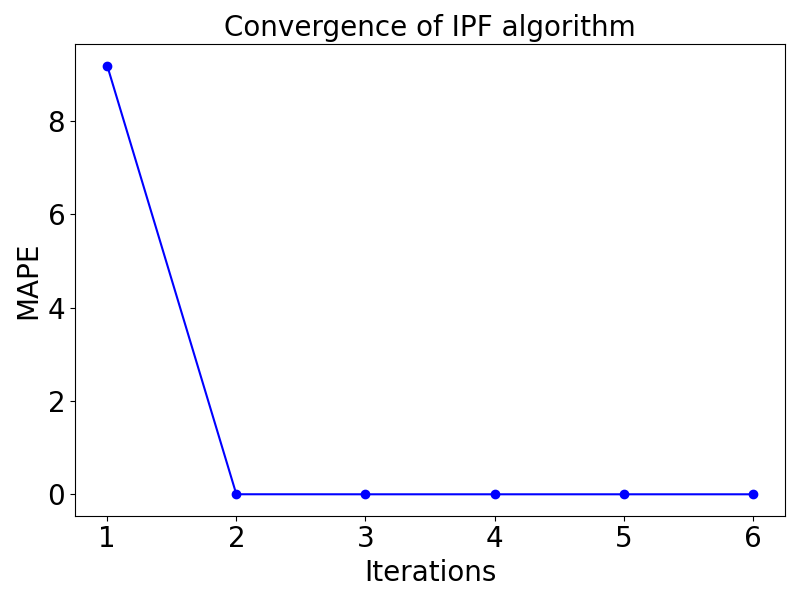
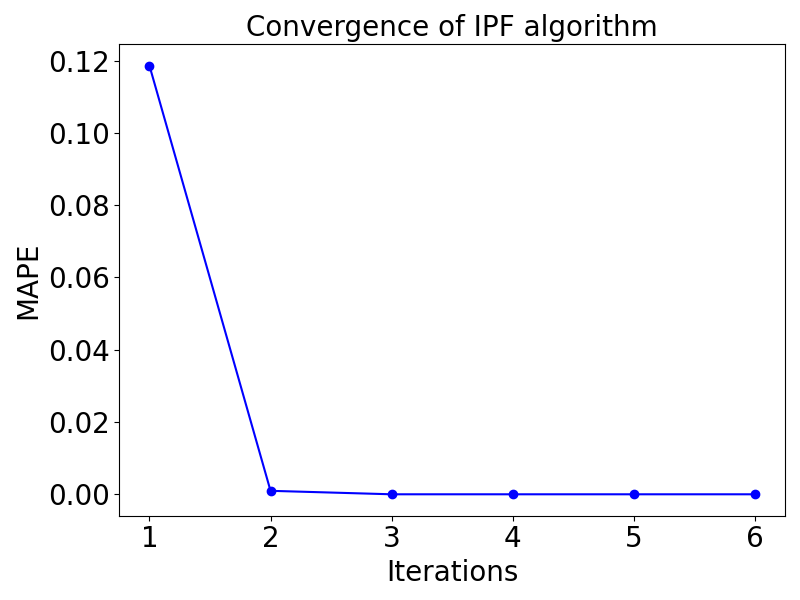
add computation time

diff --git a/run_experiment.py b/run_experiment.py
@@ -3,9 +3,12 @@ import numpy as np
 import pandas as pd
 import torch
 
+from timeit import default_timer as timer
+
 def IPF(x, mu_i, mu_j):
     """
-    Function to do iterative proportional fitting (IPF) in 2D.
+    Function to do iterative proportional fitting (IPF)
+    with two categorical variables.
     Input:
       x: 2D Numpy array, values to be raked
       mu_i: 1D Numpy array, partial sums over the columns
@@ -22,16 +25,18 @@ def IPF(x, mu_i, mu_j):
     assert len(np.shape(x)) == 2, \
         'We need to rake a two-dimensional matrix'
     assert np.shape(x)[0] == len(mu_i), \
-        'Partial sums over columns should be equal to the number of rows'
+        'Partial sums over columns should have length equal to the number of rows'
     assert np.shape(x)[1] == len(mu_j), \
-        'Partial sums over rows should be equal to the number of columns'
+        'Partial sums over rows should have length equal to the number of columns'
     assert abs(np.sum(mu_i) - np.sum(mu_j)) < 1e-10, \
         'Sum of partial sums over rows and columns should be equal'
 
+    # Initialization
     alpha = np.ones((np.shape(x)[0], np.shape(x)[1]))
     epsilon = 1
     diffs = [0.5 * np.mean(np.abs((mu_j - np.sum(alpha * x, 0)) / mu_j)) + \
              0.5 * np.mean(np.abs((mu_i - np.sum(alpha * x, 1)) / mu_i))]
+    # Loop until convergence
     while epsilon > 1e-10:
         alpha_old = np.copy(alpha)
         alpha = alpha * mu_j / np.sum(alpha * x, 0)
@@ -40,13 +45,14 @@ def IPF(x, mu_i, mu_j):
         diffs.append( \
             0.5 * np.mean(np.abs((mu_j - np.sum(alpha * x, 0)) / mu_j)) + \
             0.5 * np.mean(np.abs((mu_i - np.sum(alpha * x, 1)) / mu_i)))
+    # Return raked values
     mu = alpha * x
     return (mu, diffs)
 
 def IPF_torch(x, mu_i, mu_j):
     """
-    Function to do iterative proportional fitting (IPF) in 2D
-    using Torch tensors instead of Numpy.
+    Function to do iterative proportional fitting (IPF)
+    with two categorical variables using Torch tensors instead of Numpy.
     Input:
       x: 2D Torch tensor, values to be raked
       mu_i: 1D Torch tensor, partial sums over the columns
@@ -63,19 +69,22 @@ def IPF_torch(x, mu_i, mu_j):
     assert len(x.shape) == 2, \
         'We need to rake a two-dimensional tensor'
     assert x.shape[0] == mu_i.shape[0], \
-        'Partial sums over columns should be equal to the number of rows'
+        'Partial sums over columns should have length equal to the number of rows'
     assert x.shape[1] == mu_j.shape[0], \
-        'Partial sums over rows should be equal to the number of columns'
+        'Partial sums over rows should have length equal to the number of columns'
     assert torch.abs(torch.sum(mu_i) - torch.sum(mu_j)) < 1e-5, \
         'Sum of partial sums over rows and columns should be equal'
 
+    # We use log values instead of actual values for better convergence
     x = torch.log(x)
+    # Initialization
     beta = torch.zeros(x.shape[0], x.shape[1])
     epsilon = 1
     diffs = (0.5 * torch.mean(torch.abs((torch.log(mu_j) -
                 torch.logsumexp(x + beta, 0)) / torch.log(mu_j))) + \
              0.5 * torch.mean(torch.abs((torch.log(mu_i) -
                 torch.logsumexp(x + beta, 1)) / torch.log(mu_i)))).reshape(1)
+    # Loop until convergence
     while epsilon > 1e-10:
         beta_old = torch.clone(beta)
         beta = beta + torch.log(mu_j) - torch.logsumexp(x + beta, 0)
@@ -89,73 +98,81 @@ def IPF_torch(x, mu_i, mu_j):
              0.5 * torch.mean(torch.abs((torch.log(mu_i) -
                 torch.logsumexp(x + beta, 1)) / torch.log(mu_i)))).reshape(1)),
             dim=0)
+    # Go back to experiment and return raked values
     mu = torch.exp(x + beta)
     return (mu, diffs)
 
-def create_experiment():
+def create_experiment(n, m, plot=True):
     """
     Function to test the IPF algorithm.
-    Returns initial values and raked values.
+    Input:
+      n: Integer, number of categories for first variable
+      m: Integer, number of categories for second variable
+    Output:
+      x: 2D Numpy array, values to be raked
+      mu_i: 1D Numpy array, partial sums over the columns
+      mu_j: 1D Numpy array, partial sums over the rows
+      mu: 2D Numpy array, raked values
+      num_iter: Integer, number of iterations until convergence
+      time: scalar, computation time
     """
+
     # Set seed for reproducibility
-    np.random.seed(0)
+    np.random.seed(n * m)
 
     # Choose values for x, mu_i, mu_j
-    n = 50
-    m = 40
-    x = np.random.uniform(0.004, 0.006, m * n).reshape((n, m))
-    mu_i = np.random.uniform(0.15, 0.25, n)
+    x = np.random.uniform(0.8 / (n * m), 1.2 / (n * m), m * n).reshape((n, m))
+    mu_i = np.random.uniform(0.75 / n, 1.25 / n, n)
     mu_i = mu_i / np.sum(mu_i)
-    mu_j = np.random.uniform(0.2, 0.3, m)
+    mu_j = np.random.uniform(0.75 / m, 1.25 / m, m)
     mu_j = mu_j / np.sum(mu_j)
 
     # Rake matrix using IPF algorithm
+    time_start = timer()
     (mu, diffs) = IPF(x, mu_i, mu_j)
-
-    # Print results to show that it works
-    # Print sums over i
-    for i in range(0, n):
-        print('Row ', i, ' - True value = ', mu_i[i], \
-                         ' - Computed value = ', np.sum(mu, 1)[i])
-    # Print sums over j
-    for j in range(0, m):
-        print('Column ', j, ' - True value = ', mu_j[j], \
-                            ' - Computed value = ', np.sum(mu, 0)[j])
-    # Print overall sum
-    print('Total = ', np.sum(mu_i), ' and ', np.sum(mu_j), \
-          ' - Computed value = ', np.sum(mu))
+    time_end = timer()
 
     # Show how fast it converges
-    fig, ax = plt.subplots(figsize=(8, 6))
-    plt.plot(np.arange(1, len(diffs) + 1), diffs, 'bo')
-    plt.plot(np.arange(1, len(diffs) + 1), diffs, 'b-')
-    plt.xlabel('Iterations', fontsize=20)
-    plt.ylabel('MAPE', fontsize=20)
-    ax.set_xticks(np.arange(1, len(diffs) + 1).tolist())
-    plt.xticks(fontsize=20)
-    plt.yticks(fontsize=20)
-    plt.title('Convergence of IPF algorithm', fontsize=20)
-    plt.tight_layout()
-    plt.savefig('IPF_convergence.png')
+    if plot:
+        fig, ax = plt.subplots(figsize=(8, 6))
+        plt.plot(np.arange(1, len(diffs) + 1), diffs, 'bo')
+        plt.plot(np.arange(1, len(diffs) + 1), diffs, 'b-')
+        plt.xlabel('Iterations', fontsize=20)
+        plt.ylabel('MAPE', fontsize=20)
+        ax.set_xticks(np.arange(1, len(diffs) + 1).tolist())
+        plt.xticks(fontsize=20)
+        plt.yticks(fontsize=20)
+        plt.title('Convergence of IPF algorithm', fontsize=20)
+        plt.tight_layout()
+        plt.savefig('IPF_convergence.png')
 
     # Return values for analysis
-    return (x, mu_i, mu_j, mu)
+    num_iter = len(diffs)
+    return (x, mu_i, mu_j, mu, num_iter, time_end - time_start)
 
-def create_experiment_torch():
+def create_experiment_torch(n, m, plot=True):
     """
     Function to test the IPF algorithm with Torch tensors.
-    Returns initial values and raked values.
+    Input:
+      n: Integer, number of categories for first variable
+      m: Integer, number of categories for second variable
+    Output:
+      x: 2D Torch tensor, values to be raked
+      mu_i: 1D Torch tensor, partial sums over the columns
+      mu_j: 1D Torch tensor, partial sums over the rows
+      mu: 2D Torch tensor, raked values
+      num_iter: Integer, number of iterations until convergence
+      time: scalar, computation time
     """
+
     # Set seed for reproducibility
-    np.random.seed(0)
+    np.random.seed(n * m)
 
     # Choose values for x, mu_i, mu_j
-    n = 50
-    m = 40
-    x = np.random.uniform(0.004, 0.006, m * n).reshape((n, m))
-    mu_i = np.random.uniform(0.15, 0.25, n)
+    x = np.random.uniform(0.8 / (n * m), 1.2 / (n * m), m * n).reshape((n, m))
+    mu_i = np.random.uniform(0.75 / n, 1.25 / n, n)
     mu_i = mu_i / np.sum(mu_i)
-    mu_j = np.random.uniform(0.2, 0.3, m)
+    mu_j = np.random.uniform(0.75 / m, 1.25 / m, m)
     mu_j = mu_j / np.sum(mu_j)
 
     # Convert to Torch tensors
@@ -164,36 +181,27 @@ def create_experiment_torch():
     mu_j = torch.from_numpy(mu_j)
 
     # Rake matrix using IPF algorithm
+    time_start = timer()
     (mu, diffs) = IPF_torch(x, mu_i, mu_j)
-
-    # Print results to show that it works
-    # Print sums over i
-    for i in range(0, n):
-        print('Row ', i, ' - True value = ', mu_i[i], \
-                         ' - Computed value = ', torch.sum(mu, 1)[i])
-    # Print sums over j
-    for j in range(0, m):
-        print('Column ', j, ' - True value = ', mu_j[j], \
-                            ' - Computed value = ', torch.sum(mu, 0)[j])
-    # Print overall sum
-    print('Total = ', torch.sum(mu_i), ' and ', torch.sum(mu_j), \
-          ' - Computed value = ', torch.sum(mu))
+    time_end = timer()
 
     # Show how fast it converges
-    fig, ax = plt.subplots(figsize=(8, 6))
-    plt.plot(np.arange(1, len(diffs) + 1), diffs, 'bo')
-    plt.plot(np.arange(1, len(diffs) + 1), diffs, 'b-')
-    plt.xlabel('Iterations', fontsize=20)
-    plt.ylabel('MAPE', fontsize=20)
-    ax.set_xticks(np.arange(1, len(diffs) + 1).tolist())
-    plt.xticks(fontsize=20)
-    plt.yticks(fontsize=20)
-    plt.title('Convergence of IPF algorithm', fontsize=20)
-    plt.tight_layout()
-    plt.savefig('IPF_torch_convergence.png')
+    if plot:
+        fig, ax = plt.subplots(figsize=(8, 6))
+        plt.plot(np.arange(1, len(diffs) + 1), diffs, 'bo')
+        plt.plot(np.arange(1, len(diffs) + 1), diffs, 'b-')
+        plt.xlabel('Iterations', fontsize=20)
+        plt.ylabel('MAPE', fontsize=20)
+        ax.set_xticks(np.arange(1, len(diffs) + 1).tolist())
+        plt.xticks(fontsize=20)
+        plt.yticks(fontsize=20)
+        plt.title('Convergence of IPF algorithm', fontsize=20)
+        plt.tight_layout()
+        plt.savefig('IPF_torch_convergence.png')
 
     # Return values for analysis
-    return (x, mu_i, mu_j, mu)
+    num_iter = len(diffs)
+    return (x, mu_i, mu_j, mu, num_iter, time_end - time_start)
 
 def transform_to_pandas(x, mu_i, mu_j, mu):
     """
@@ -216,8 +224,59 @@ def transform_to_pandas(x, mu_i, mu_j, mu):
 
 if __name__ == "__main__":
 
-    (x, mu_i, mu_j, mu) = create_experiment()
-    (x, mu_i, mu_j, mu) = create_experiment_torch()
+    # Run experiment once to show the convergence
+    (x, mu_i, mu_j, mu, num, time) = create_experiment(50, 40, True)
+    (x, mu_i, mu_j, mu, num_torch, time_torch) = create_experiment_torch(50, 40, True)
+
+    # Run experiments with different matrix sizes
+    # and compare number of iterations and computation time
+    ns = np.array([5, 10, 20, 50, 100, 200, 500, 1000, 2000, 5000, 10000, 20000])
+    ms = np.array([4, 8, 16, 40, 80, 160, 400, 800, 1600, 4000, 8000, 16000])
+    xticks = [1, 4, 7, 10]
+    xticklabels = ['20', '2e3', '2e5', '2e7']
+    num_iters = np.zeros(12)
+    num_iters_torch = np.zeros(12)
+    times = np.zeros(12)
+    times_torch = np.zeros(12)
+    for count, (n, m) in enumerate(zip(ns, ms)):
+        (x, mu_i, mu_j, mu, num, time) = create_experiment(n, m, False)
+        num_iters[count] = num
+        times[count] = time        
+        print(count, 'Numpy', num_iters[count], times[count])
+        (x, mu_i, mu_j, mu, num, time) = create_experiment_torch(n, m, False)
+        num_iters_torch[count] = num
+        times_torch[count] = time
+        print(count, 'Torch', num_iters_torch[count], times_torch[count])
+
+    # Plot results of experiment
+    fig, (ax1, ax2) = plt.subplots(1, 2, figsize=(16, 6))
+    fig.suptitle('Speed of convergence of IPF algorithm', fontsize=20)
+    # Iterations
+    ax1.plot(np.arange(1, len(num_iters) + 1), num_iters, 'bo')
+    ax1.plot(np.arange(1, len(num_iters) + 1), num_iters, 'b-', label='Numpy')
+    ax1.plot(np.arange(1, len(num_iters_torch) + 1), num_iters_torch, 'ro')
+    ax1.plot(np.arange(1, len(num_iters_torch) + 1), num_iters_torch, 'r-', label='Torch')
+    ax1.set_xlabel('Matrix size', fontsize=20)
+    ax1.set_ylabel('Number of iterations', fontsize=20)
+    ax1.set_xticks(xticks)
+    ax1.set_xticklabels(xticklabels, fontsize=20)
+    ax1.yaxis.set_tick_params(labelsize=20)
+    ax1.legend(loc='upper left', fontsize=20)
+    # Computation time
+    ax2.plot(np.arange(1, len(times) + 1), np.log(times), 'bo')
+    ax2.plot(np.arange(1, len(times) + 1), np.log(times), 'b-', label='Numpy')
+    ax2.plot(np.arange(1, len(times_torch) + 1), np.log(times_torch), 'ro')
+    ax2.plot(np.arange(1, len(times_torch) + 1), np.log(times_torch), 'r-', label='Torch')
+    ax2.set_xlabel('Matrix size', fontsize=20)
+    ax2.set_ylabel('Log Computation time', fontsize=20)
+    ax2.set_xticks(xticks)
+    ax2.set_xticklabels(xticklabels, fontsize=20)
+    ax2.yaxis.set_tick_params(labelsize=20)
+    ax2.legend(loc='upper left', fontsize=20)
+    # End figure
+    plt.tight_layout()
+    plt.savefig('IPF_convergence_speed.png')
+
 #    (df_x, df_mu) = transform_to_pandas(x, mu_i, mu_j, mu)
 #    df_x.to_csv('initial_values.csv')
 #    df_mu.to_csv('raked_values.csv')
